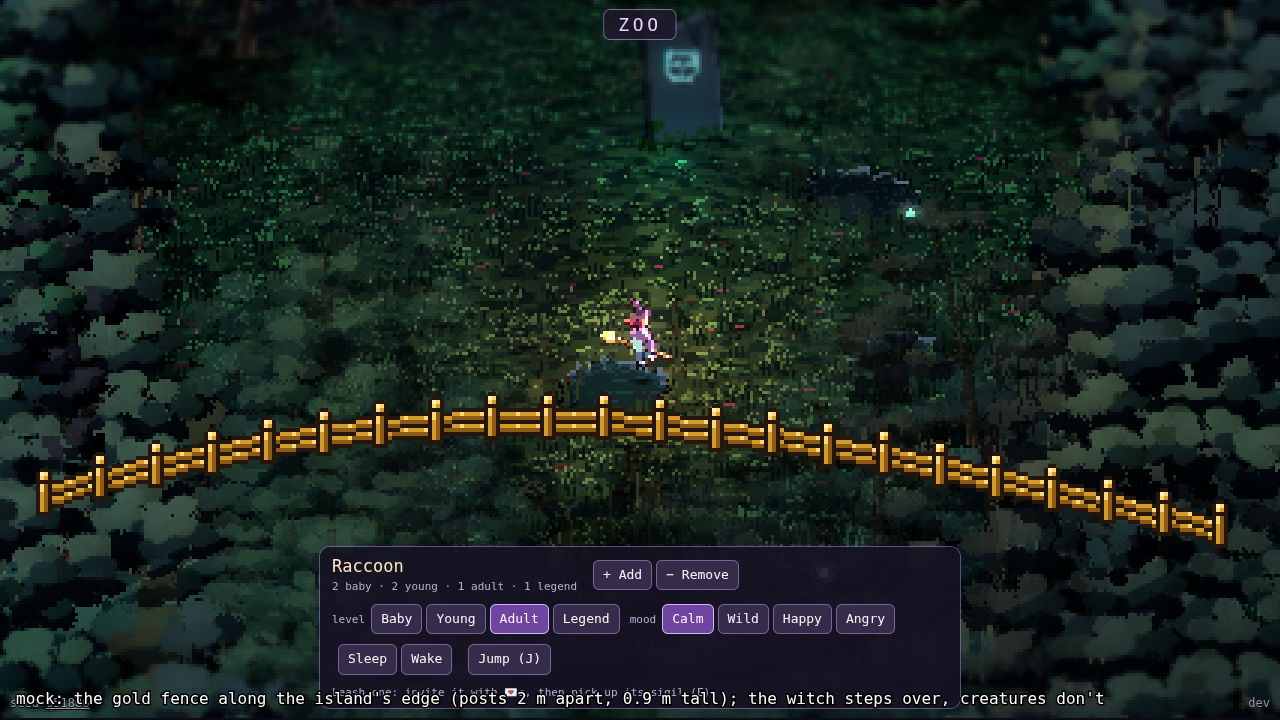
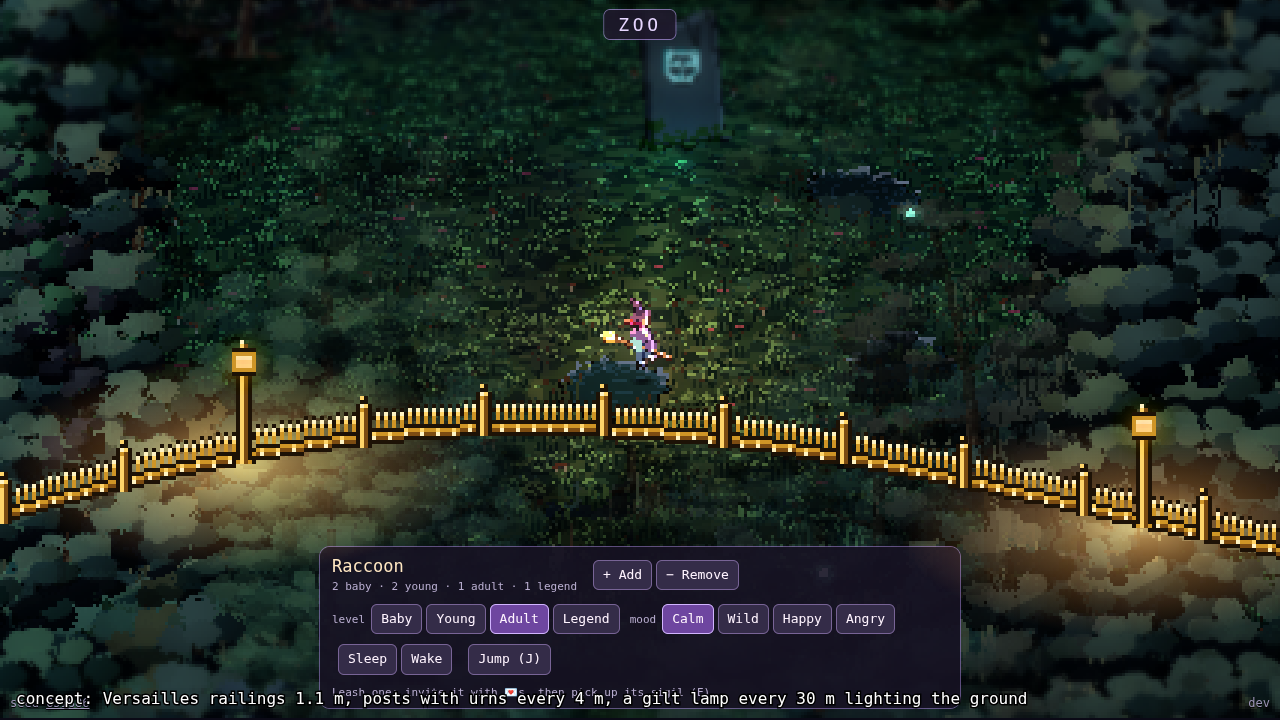
Zoo map: Versailles fence and lamps concept frames
Claude-Session: https://claude.ai/code/session_01TZiiLtuTHaQyxfLgD6H57G

Changed region(s): [[0.0, 0.4583, 1.0, 0.8556], [0.0, 0.9472, 0.875, 0.9778]]

diff --git a/previews/ed/zoo-map/NOTES.md b/previews/ed/zoo-map/NOTES.md
@@ -97,3 +97,17 @@ Ed: "Zoo areas, apart from home, should have a little gold fence around them, th
 
 1. **Q1 (streets)**: plain flagstone streets everywhere, or the sea's shape kept by darker, wetter stone near the coasts?
 1. **Q1 (animals)**: only the island's own animal at every age, plus its sleeping legend? Its legend sleeps at the centre. Should its quest work in the zoo (bring it the sigil it dreams of and it wakes happy), or should it only sleep, for show?
+
+## The fence: Versailles railings (concept, before the final art)
+
+The brief: gilded railings about 1–1.2 m, close-set bars with spearhead finials, a lower band with rosettes, taller posts with urns, and gilt streetlamps with lantern heads every ~30 m that really light the ground.
+
+- `fence-close.png`: one run close up, in the bold pixel style (three gold tones, near-black outline). Bars every 2 art px with spearheads, a rail band with rosettes low down, a post with an urn every 4 m, and a lamp (about 4 m, a lantern head) casting a warm pool.
+- `frame-fence.png`: the same overlaid in play at the game's scale (an art pixel is about 0.13 m, so the railing is 1.1 m, a little under her shoulder).
+- `lamps-above.png`: zoomed out over world 0. A lamp about every 30 m, spread evenly round each island (17–18 an island), each with its warm pool.
+
+**The light budget.** That is about 1,100 lamps over the whole zoo (about 170 in a treetop view). The plan: every lamp's head glows (emissive, free), its pool is drawn in the ground shader from the nearest lamps' places, and only the nearest ~8 to her also feed the game's point lights (the house/party light system), so the cost is the same as a party area's.
+
+**Flying over.** The fence stops walking only (her on foot, every creature). Rising and flying cross it, and her leashed followers follow her over, as they would anywhere (tested: `src/rules/zooFence.test.ts`).
+
+**Knocked out in the zoo** she comes back on home's plaza (tested).
